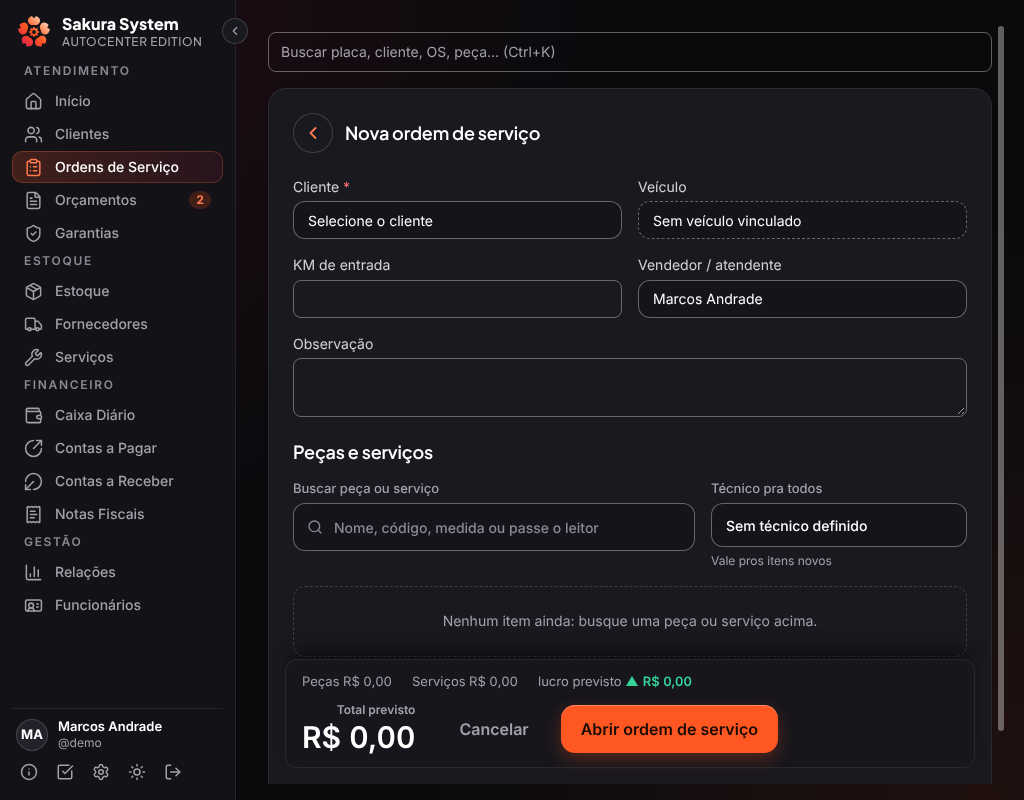
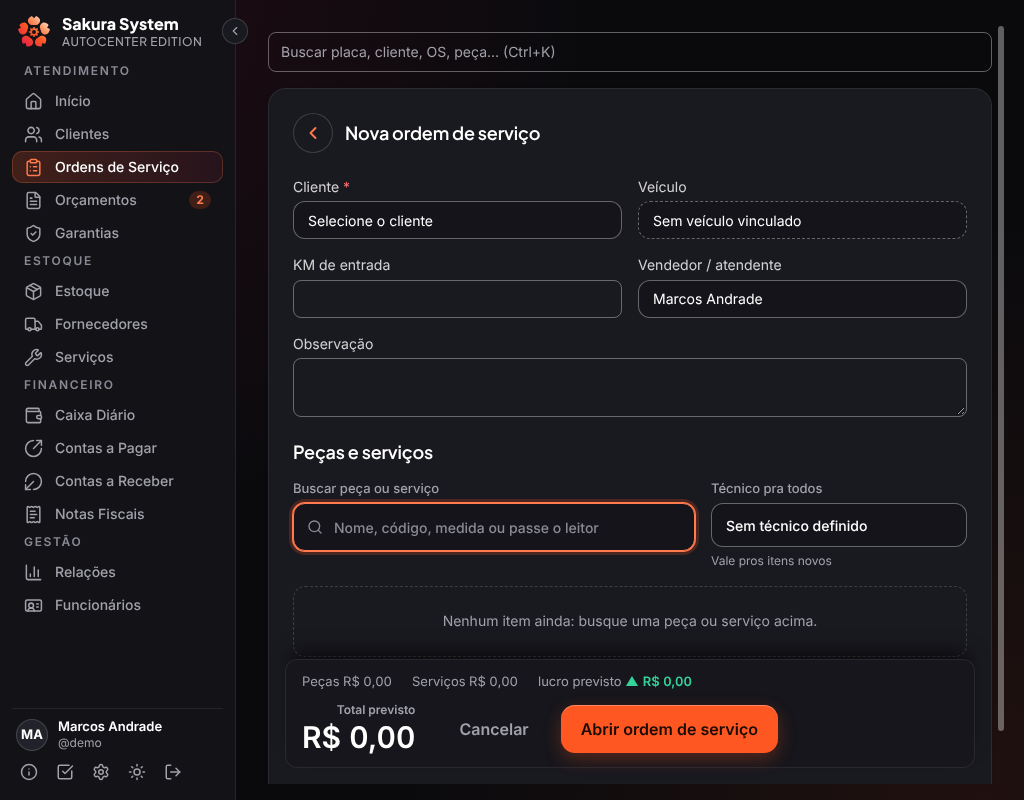
OS #1087: relatório e fotos com o código final
Claude-Session: https://claude.ai/code/session_01Qm3dJ4S6CGH3DnRYxzn44S

Changed region(s): [[0.2812, 0.625, 0.6875, 0.7188]]

diff --git a/docs/relatorios/2026-11-24-tarefa-1087-frontend.md b/docs/relatorios/2026-11-24-tarefa-1087-frontend.md
@@ -1,0 +1,63 @@
+# Relatório: tarefa #1087, chefe frontend
+
+- **Tarefa**: #1087, peças e serviços na OS com uma busca só, e a OS em página própria (leva 8, trilha B)
+- **Chefe**: frontend
+- **Data**: 2026-11-24
+- **PR**: o desta branch (`claude/jolly-mayer-9aj2fd`), com `Closes #1087`
+- **Jeito**: com ajudantes
+
+## O que cada agente fez
+- **Explorador (rápido)**: nenhum. A sessão mãe leu os arquivos ao planejar (eram poucos e já listados na issue).
+- **Ajudante forte (dinheiro e busca, teste primeiro)**: `lucroPrevistoDaOrdem` e `lucroPrevistoDaVenda` (reaproveitam `lucroDaOrdem` e `lucroDaOrdemPeloBanco`, nenhuma conta nova); o arquivo novo `src/schemas/buscaDeItens.ts` (`buscarNoCatalogo`, `itemDoEnter`, `incluirNaOS`, `itemAvulso`, `aplicarTecnicoATodos`); a OS nova começa sem a linha vazia.
+- **Ajudante médio 1 (a busca e a tabela)**: `BuscaDeItens`, `TabelaDeItens`, `TotalELucro`, o hook `useCustosDoLucro`; trocou a busca e a tabela da OS, do orçamento e da venda de balcão; o "Técnico pra todos"; o "Encerrar OS" virou botão secundário (um laranja só). Parou no limite de 60 turnos e terminou depois de uma segunda mensagem.
+- **Ajudante médio 2 (a página e o veículo)**: a OS e a venda abrem numa página só delas, com a lista voltando no mesmo lugar (`rolagemDaLista.ts`); tipo e cor no cadastro rápido de veículo.
+- **Revisor (forte, esforço alto)**: leu o diff do zero. Nada grave; achou 1 defeito médio e 2 pequenos, todos confirmados e consertados pela sessão mãe (ver abaixo).
+- **Sessão mãe**: planejou, juntou, as cenas do catálogo, as fotos, o acabamento visto nas fotos e os consertos da revisão.
+
+## Modelos usados
+- Planejar e juntar: forte (sessão mãe, `claude-opus-5-5`), esforço médio.
+- Lucro previsto e busca: forte (`ajudante-forte`), esforço alto.
+- A busca, a tabela e a página: médio (`ajudante-medio`, 2 ajudantes em paralelo, arquivos separados), esforço padrão do agente.
+- Revisão final: forte (`ajudante-forte`), esforço alto.
+- Nenhuma troca de modelo por falha.
+
+## Sessões filhas
+- Nenhuma (a issue diz `Sessões filhas: não`).
+
+## Gasto
+- **Uso da sessão mãe**: não medido (a sessão não tem o arquivo de uso à mão).
+- **Ajudantes**: 4 chamados, mais uma retomada. Pelos avisos de fim: forte (lucro e busca) ~152 mil tokens; médio 1 ~273 mil + ~16 mil na retomada; médio 2 ~96 mil; revisor ~207 mil.
+- **Sessões filhas**: nenhuma.
+- **`/goal`**: ligado pela pessoa na tela (o comando apareceu na conversa). Como parou fica registrado na conversa; até este relatório, ainda ativo.
+
+## O que testei e VI reprovar
+- **Lucro previsto** (`ordemServico.test.ts`, `vendaBalcao.test.ts`): cada teste nasceu contra um esqueleto que devolvia valor errado (0 no lugar de 160 e de 130; número no lugar de "aparece ao salvar"). Depois o forte quebrou o código de propósito: sem a trava do custo não informado, sem o arredondamento (deu 10,299999…), travando em `Math.max(0, …)` (o prejuízo de −20 virou 0) e somando só os novos (130 no lugar de 290). Cada vez o teste certo ficou vermelho.
+- **Busca** (`buscaDeItens.test.ts`): inativo passando, sem ordenação, ignorando o limite, Enter pegando o primeiro de vários, código repetido escolhendo um: todos reprovaram. Um teste de ordem passou com o código quebrado (era fraco) e foi corrigido.
+- **Telas**: tirar o `itemDoEnter` (o leitor deixa de pôr a peça), tirar o `stopPropagation` do Enter (8 reprovam, inclusive o do atalho global), Enter pondo o 1º resultado, técnico pra todos sem aplicar, total grande mostrando só peças, Encerrar OS laranja: todos reprovaram.
+- **Página própria**: com o `OrdensServicoPage.tsx` antigo, os 3 testes novos reprovaram; sem devolver a rolagem, o da rolagem reprovou.
+- **Veículo rápido**: os 3 testes de tipo e cor reprovaram antes do campo existir.
+- **Achados da revisão**: os 3 testes novos ("outro técnico vira outra linha", "calculando, nunca o número velho", "foco na busca na OS nova") reprovaram antes do conserto.
+
+## O que passou sem eu ter visto reprovar
+- "Venda vazia dá lucro zero" (depende da regra "sem item = 0" da OS, que foi vista reprovar).
+- Os testes antigos de OS, orçamento e venda que foram só adaptados ao jeito novo de lançar item (pela busca, e não pelo `<select>` Peça/Serviço e o "+ adicionar item", que sumiram), com as mesmas conferências de valores e chamadas.
+
+## O que ficou de fora
+- **A página própria do orçamento**: o orçamento usa o mesmo formulário (ganhou busca, tabela, técnico e total), mas continua abrindo em cima da lista de Orçamentos. O `OrcamentosPage.tsx` não está na lista de arquivos da issue ("mexer fora: parar e perguntar"), então não mexi. Dá pra fazer igual ao da OS numa tarefa pequena.
+- **"Técnico pra todos" nos itens já gravados**: vale só pros itens novos (a dica do campo diz isso). Trocar o técnico de item gravado continua pelo "Editar" de cada um, que salva na hora.
+- **A folha "o que cada tela precisa ter" (#990)**: não está no repositório (foi enviada à equipe por fora). Conferi pela lista "Nesta tela" e pelos critérios da leva 8 da issue.
+- **Melhorias apontadas pela revisão, sem bug**: baixar o cadastro de peças a cada OS aberta (pra quem tem Estoque) custa rede; item novo entrando no fim da tabela pode ficar atrás da barra do rodapé; Enter com 0 resultados não escolhe o "Serviço sem cadastro" sozinho (precisa da seta). Ficam como sugestão.
+- **Sugestão do forte**: exportar a função `normalizar` de `src/schemas/estoque.ts` e apagar a cópia local que a busca usa só pra ordenar (estoque.ts não estava na lista).
+
+## O que depende de alguém
+- **Tiago, no PC** (`docs/equipe.md`, "Testar no seu computador o que a sessão da nuvem fez", **caso B: abrir o programa**, branch `claude/jolly-mayer-9aj2fd`, no Supabase de teste): Nova OS, digitar "pneu" e ver peças e serviços juntos; pôr 2 peças e 1 serviço; escolher o técnico "pra todos"; ver o total e o lucro previsto embaixo; o mesmo num orçamento e numa venda de balcão; o cadastro rápido de veículo pela OS pedindo tipo e cor.
+- **Sofia**: revisar e aprovar o PR. Depois de publicar, no teste de fim de semana: ler uma peça com o leitor de código de barras da loja e ver ela entrar na OS.
+
+## Onde parou
+Terminei.
+
+## Como eu agi
+- **O que a skill me ajudou a fazer**: a tabela de agentes e o ritual deixaram claro quem faz o quê; o contrato escrito antes (nomes e assinaturas das funções) deixou o forte e os 2 médios trabalharem ao mesmo tempo sem pisar um no outro.
+- **Onde eu errei ou tive que adivinhar**: no foco ao abrir, o ajudante seguiu primeiro o meu pedido (Cliente na OS nova), o que contrariava o "Nesta tela" da issue; a revisão pegou e voltei pra busca. Pedido meu errado, não do ajudante.
+- **O que faltou na skill**: o ajudante médio estourou o limite de 60 turnos numa etapa grande (3 telas + 3 componentes + 10 arquivos de teste). A skill poderia dizer pra partir uma etapa assim em 2 ajudantes.
+- **Sugestão de ajuste (opcional)**: no `chefe-frontend`, seção 4: "etapa com mais de ~8 arquivos de tela: dividir entre 2 construtores com arquivos separados e um contrato escrito antes".
